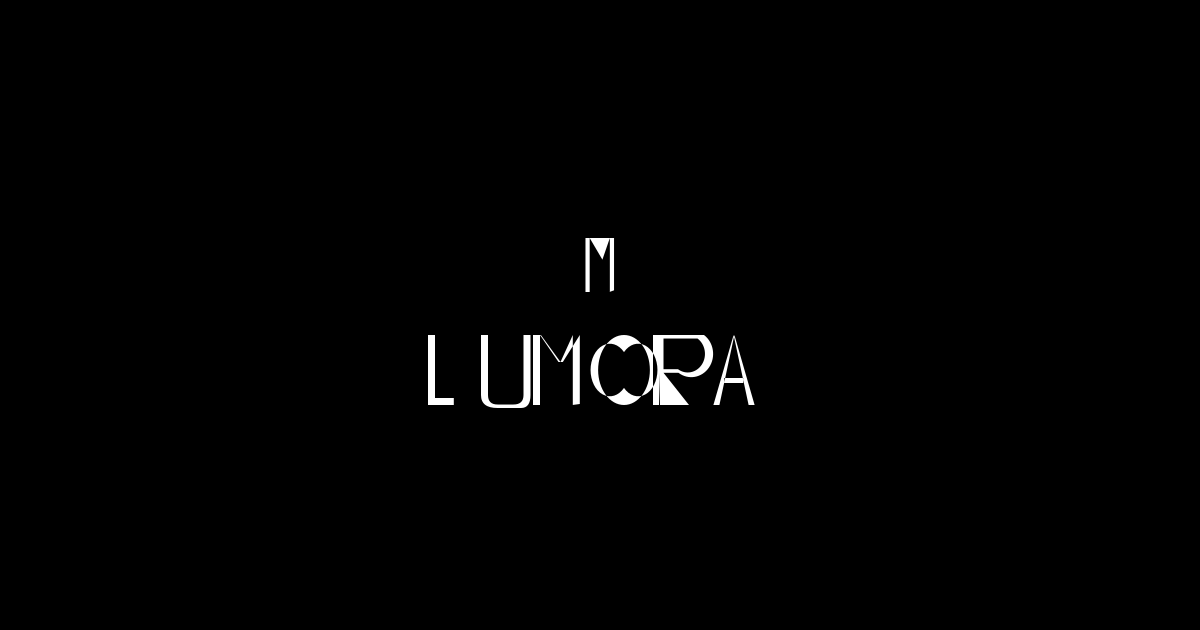
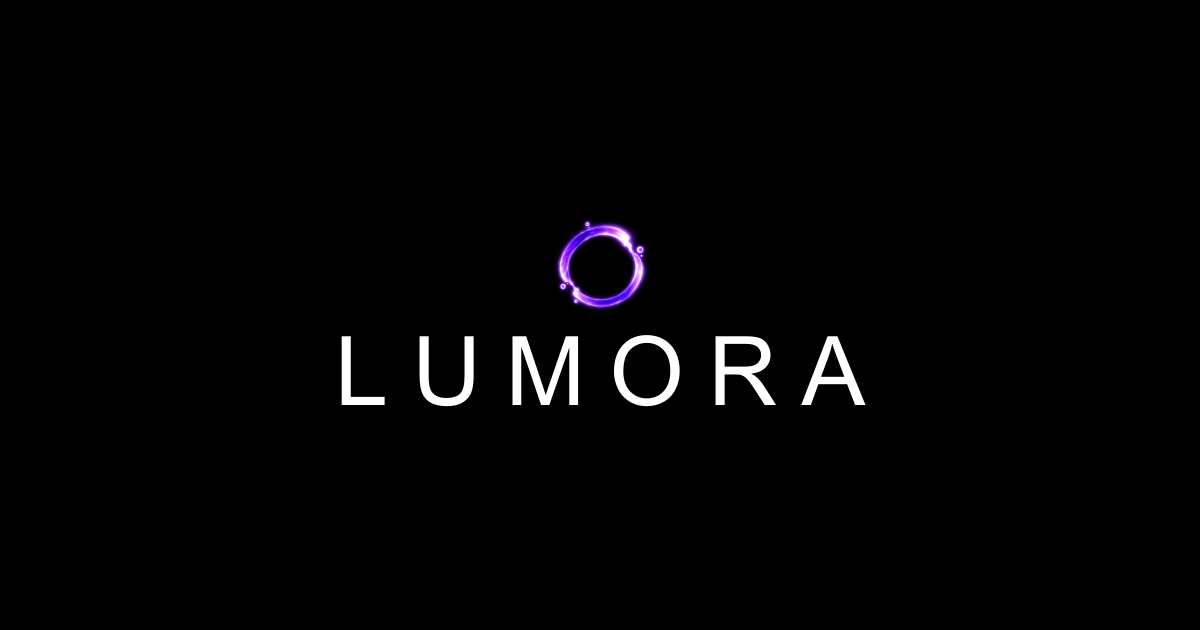
feat(identity): integrate final LUMORA luminous identity

Changed region(s): [[0.3392, 0.3317, 0.74, 0.6635], [0.2775, 0.5429, 0.3392, 0.6635]]

diff --git a/components/layout/footer.tsx b/components/layout/footer.tsx
@@ -10,24 +10,17 @@ export function Footer() {
           <div>
             <Link href="/" aria-label={`${SITE_CONFIG.name} — Home`}>
               <span className="inline-flex items-center gap-2 mb-3">
-                {/* M Core — always visible */}
-                <svg
-                  viewBox="0 0 1000 1000"
-                  fill="var(--color-text)"
-                  className="w-6 h-6"
+                {/* Approved luminous identity mark */}
+                <img
+                  src="/brand/lumora-mark-luminous.webp"
+                  alt=""
+                  className="w-6 h-6 object-contain"
                   aria-hidden="true"
-                >
-                  <path d="M258,50L328,50L328,950L258,950ZM664,50L734,50L734,922L656,950L664,950ZM328,50L540,411L664,50Z" />
-                </svg>
-                {/* Wordmark — 28px desktop, 24px mobile */}
-                <svg
-                  viewBox="0 0 3600 1000"
-                  fill="var(--color-text)"
-                  className="h-6 md:h-7 w-auto"
-                  aria-hidden="true"
-                >
-                  <path d="M80,100 L150,100 L150,730 L338,730 L338,800 L80,800 Z M610,100 L680,100 L680,700 Q680,795 775,795 L935,795 Q1035,795 1035,700 L1035,100 L1105,100 L1105,700 Q1105,830 1010,830 L775,830 Q610,830 610,700 Z M1130,100 L1200,100 L1200,800 L1130,800 Z M1200,100 L1209,100 L1405,370 L1385,370 Z M1405,370 L1428,370 L1598,100 L1528,100 Z M1528,100 L1598,100 L1598,790 L1524,800 L1528,800 Z M2040,100 A227,307 0 1,1 2040,800 A227,307 0 1,1 2040,100 Z M2040,271 A193,263 0 1,0 2040,629 A193,263 0 1,0 2040,271 Z M2330,100 L2400,100 L2400,800 L2330,800 Z M2400,100 L2840,100 A157,167 0 0,1 2585,478 L2400,478 Z M2435,135 L2775,135 A122,132 0 0,1 2580,442 L2435,442 Z M2400,478 L2435,478 L2690,800 L2390,800 Z M3136,100 L3144,100 L2994,800 L2934,800 Z M3136,100 L3144,100 L3346,800 L3286,800 Z M3043,530 L3232,530 L3232,580 L3043,580 Z" />
-                </svg>
+                />
+                {/* Quiet text wordmark */}
+                <span className="whitespace-nowrap font-sans text-[18px] md:text-[22px] font-light leading-none tracking-[0.32em] text-text">
+                  LUMORA
+                </span>
               </span>
             </Link>
             <p className="text-[13px] text-text-muted/70 max-w-[280px]">

diff --git a/components/layout/navigation.tsx b/components/layout/navigation.tsx
@@ -68,24 +68,19 @@ export function Navigation() {
           {/* Brand Zone — the identity, always present */}
           <Link href="/" aria-label={`${SITE_CONFIG.name} — Home`}>
             <span className="flex items-center gap-2">
-              {/* M Core — always visible */}
-              <svg
-                viewBox="0 0 1000 1000"
-                fill="var(--color-text)"
-                className="w-6 h-6"
+              {/* Approved luminous identity mark — always visible */}
+              <img
+                src="/brand/lumora-mark-luminous.webp"
+                alt=""
+                className="w-6 h-6 object-contain"
                 aria-hidden="true"
+              />
+              {/* Quiet text wordmark — hidden below 768px */}
+              <span
+                className="hidden md:block whitespace-nowrap font-sans text-[22px] font-light leading-none tracking-[0.32em] text-text"
               >
-                <path d="M258,50L328,50L328,950L258,950ZM664,50L734,50L734,922L656,950L664,950ZM328,50L540,411L664,50Z" />
-              </svg>
-              {/* Wordmark — hidden below 768px */}
-              <svg
-                viewBox="0 0 3600 1000"
-                fill="var(--color-text)"
-                className="hidden md:block h-7 w-auto"
-                aria-hidden="true"
-              >
-                <path d="M80,100 L150,100 L150,730 L338,730 L338,800 L80,800 Z M610,100 L680,100 L680,700 Q680,795 775,795 L935,795 Q1035,795 1035,700 L1035,100 L1105,100 L1105,700 Q1105,830 1010,830 L775,830 Q610,830 610,700 Z M1130,100 L1200,100 L1200,800 L1130,800 Z M1200,100 L1209,100 L1405,370 L1385,370 Z M1405,370 L1428,370 L1598,100 L1528,100 Z M1528,100 L1598,100 L1598,790 L1524,800 L1528,800 Z M2040,100 A227,307 0 1,1 2040,800 A227,307 0 1,1 2040,100 Z M2040,271 A193,263 0 1,0 2040,629 A193,263 0 1,0 2040,271 Z M2330,100 L2400,100 L2400,800 L2330,800 Z M2400,100 L2840,100 A157,167 0 0,1 2585,478 L2400,478 Z M2435,135 L2775,135 A122,132 0 0,1 2580,442 L2435,442 Z M2400,478 L2435,478 L2690,800 L2390,800 Z M3136,100 L3144,100 L2994,800 L2934,800 Z M3136,100 L3144,100 L3346,800 L3286,800 Z M3043,530 L3232,530 L3232,580 L3043,580 Z" />
-              </svg>
+                LUMORA
+              </span>
             </span>
           </Link>
 

diff --git a/app/layout.tsx b/app/layout.tsx
@@ -51,10 +51,6 @@ export const metadata: Metadata = {
     description: SITE_CONFIG.description,
     images: ["/opengraph-image"],
   },
-  icons: {
-    icon: "/icon.svg",
-    apple: "/apple-icon.png",
-  },
   robots: { index: true, follow: true },
   alternates: { canonical: SITE_CONFIG.url },
 };
